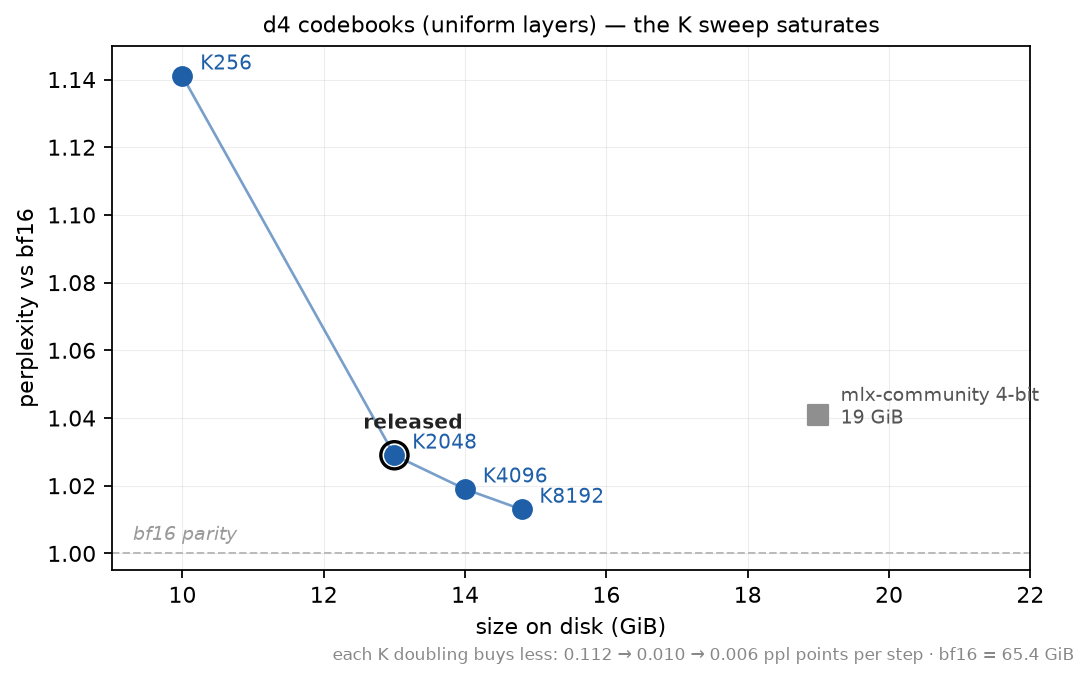
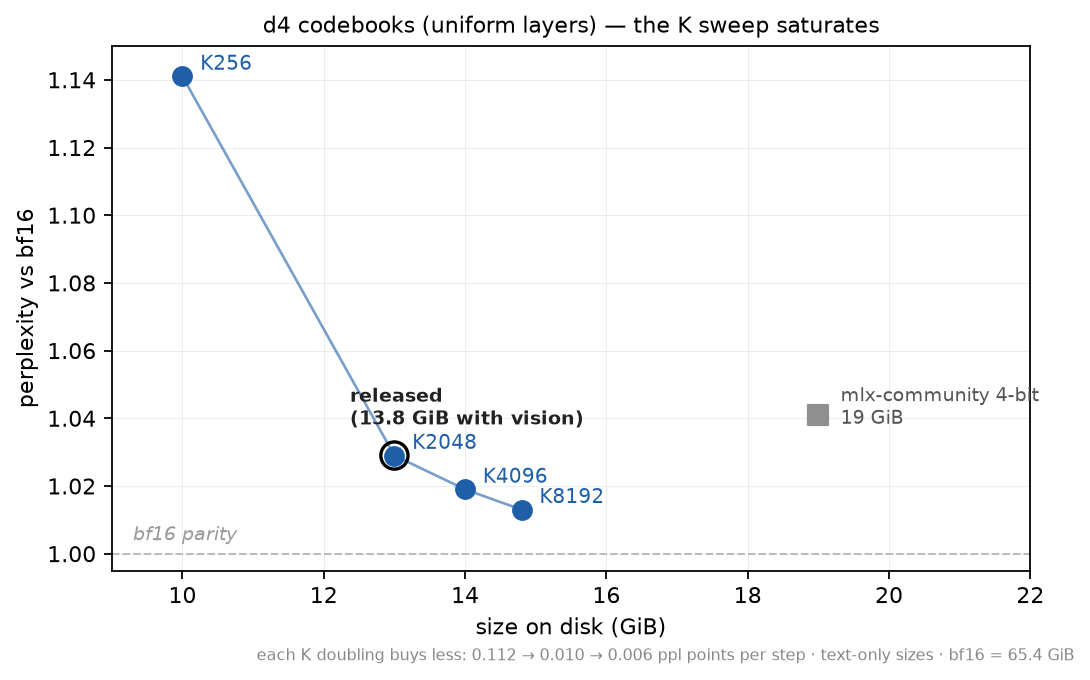
qwen release: vision towers grafted (Noah's catch) — sighted sizes 18.7/13.8, names VQ-4.6bpw/VQ-3.4bpw, charts and cards updated; KL gate + stock smoke re-passed on grafted bytes

diff --git a/research/quantlab/MODEL_CARD_QWEN_QUALITY.md b/research/quantlab/MODEL_CARD_QWEN_QUALITY.md
@@ -14,9 +14,9 @@ tags:
 - qwen3.6
 ---
 
-# Qwen3.6-35B-A3B-VQ-4.4bpw
+# Qwen3.6-35B-A3B-VQ-4.6bpw
 
-**8-bit-quality perplexity, smaller than the community 4-bit.** 17.9 GiB at ppl 0.991x vs bf16 — the 8-bit holds 0.999x at 35 GiB, the 4-bit degrades to 1.041x at 19 GiB (all measured on the same harness and corpus). Runs on a 32 GB Mac.
+**8-bit-quality perplexity, smaller than the community 4-bit.** 18.7 GiB (vision tower included) at ppl 0.991x vs bf16 — the 8-bit holds 0.999x at 35 GiB, the 4-bit degrades to 1.041x at 19 GiB (all measured on the same harness and corpus). Runs on a 32 GB Mac.
 
 A vector-quantized build of
 [Qwen3.6-35B-A3B](https://huggingface.co/Qwen/Qwen3.6-35B-A3B) for Apple
@@ -34,7 +34,7 @@ same files with an unmodified `mlx-lm`:
 |---|---|---|---|---|
 | bf16 | 65.4 GiB | 4.7215 | 1.000x | 100% |
 | mlx-community 8-bit | 35 GiB | — | 0.999x | 96.18% |
-| **this model** | **17.9 GiB** | **4.6812** | **0.991x** | 90.75% |
+| **this model** | **18.7 GiB** | **4.6812** | **0.991x** | 90.75% |
 | mlx-community 4-bit | 19 GiB | — | 1.041x | 85.61% |
 
 **At parity with bf16 on perplexity, at 26% of its size** — and smaller than
@@ -69,7 +69,7 @@ on the same harness and corpus; nothing was discarded.
 | bf16 (teacher) | — | — | 65.4 | 4.7215 | 1.000x | 0 | 100% |
 | mlx-community 8-bit | affine 8-bit | uniform | 35 | — | 0.999x | — | 96.18% |
 | mlx-community 4-bit | affine 4-bit | uniform | 19 | — | 1.041x | — | 85.61% |
-| **VQ — this model** | d2·K512 + d4·K2048 | rich layers 30-39 | 17.9 | 4.6812 | **0.991x** | 44.573 | 90.75% |
+| **VQ — this model** | d2·K512 + d4·K2048 | rich layers 30-39 | 18.7* | 4.6812 | **0.991x** | 44.573 | 90.75% |
 | VQ | d2·K2048 + d4·K2048 | rich layers 30-39 | 20.7 | 4.7210 | 1.000x | 46.842 | 90.30% |
 | VQ | d2·K256 + d4·K2048 | rich layers 30-39 | 16.5 | 4.7321 | 1.002x | 49.264 | 89.92% |
 | VQ | d2·K2048 + d4·K2048 | rich layers 20-39 | 18.1 | 4.7541 | 1.007x | 50.791 | 89.77% |
@@ -77,9 +77,11 @@ on the same harness and corpus; nothing was discarded.
 | VQ | d2·K256 | uniform | 17.6 | 4.7984 | 1.016x | 36.862 | 90.92% |
 | VQ | d4·K8192 | uniform | 14.8 | 4.7814 | 1.013x | 56.413 | 89.37% |
 | VQ | d4·K4096 | uniform | 14.0 | 4.8100 | 1.019x | 68.546 | 87.88% |
-| **VQ — compact sibling** | d4·K2048 | uniform | 13.0 | 4.8584 | 1.029x | 85.535 | 87.33% |
+| **VQ — compact sibling** | d4·K2048 | uniform | 13.8* | 4.8584 | 1.029x | 85.535 | 87.33% |
 | VQ | d4·K256 | uniform | 10 | — | 1.141x | — | 79.50% |
 | affine baseline (ours) | struct 8-bit base | uniform | 11 | — | 1.224x | — | 75.99% |
+
+\*Released sizes include the bf16 vision tower (+0.83 GiB); unreleased lab builds are text-only.
 
 Reading notes: "rich layers 30-39" means those layers carry the d4·K2048
 geometry and every other layer carries the cheap d2 geometry listed first.
@@ -107,7 +109,7 @@ Comfortable on a 32 GB machine with context headroom — the 8-bit needs 48 GB+.
 ```bash
 pip install mlx-lm
 python -m mlx_lm generate \
-  --model TheDrainFlorist/Qwen3.6-35B-A3B-VQ-4.4bpw \
+  --model TheDrainFlorist/Qwen3.6-35B-A3B-VQ-4.6bpw \
   --prompt "Write a Python function that ..." \
   --max-tokens 512
 ```

diff --git a/research/quantlab/MODEL_CARD_QWEN_SMALL.md b/research/quantlab/MODEL_CARD_QWEN_SMALL.md
@@ -14,13 +14,13 @@ tags:
 - qwen3.6
 ---
 
-# Qwen3.6-35B-A3B-VQ-3.2bpw
+# Qwen3.6-35B-A3B-VQ-3.4bpw
 
-**13.0 GiB — beats the 19 GiB 4-bit on perplexity at 68% of its size.**
+**13.8 GiB (vision tower included) — beats the 19 GiB 4-bit on perplexity at 73% of its size.**
 
 The compact build in this collection: a vector-quantized
 [Qwen3.6-35B-A3B](https://huggingface.co/Qwen/Qwen3.6-35B-A3B) for machines
-where the 17.9 GiB parity build is too large. Stock `mlx-lm`.
+where the 18.7 GiB parity build is too large. Stock `mlx-lm`.
 
 
 ![where these releases sit](qwen36_ladder.png)
@@ -31,14 +31,14 @@ where the 17.9 GiB parity build is too large. Stock `mlx-lm`.
 |---|---|---|---|
 | bf16 | 65.4 GiB | 1.000x | 100% |
 | mlx-community 8-bit | 35 GiB | 0.999x | 96.18% |
-| sibling parity build | 17.9 GiB | 0.991x | 90.75% |
-| **this model** | **13.0 GiB** | **1.029x** | **87.33%** |
+| sibling parity build | 18.7 GiB | 0.991x | 90.75% |
+| **this model** | **13.8 GiB** | **1.029x** | **87.33%** |
 | mlx-community 4-bit | 19 GiB | 1.041x | 85.61% |
 
 **+2.9% perplexity against the 4-bit's +4.1%, at 68% of its size.**
 
 This is a genuine quality step down from the parity build — it costs ~3.8%
-perplexity to save 4.9 GiB. If you have the RAM, take the 17.9 GiB one.
+perplexity to save 4.9 GiB. If you have the RAM, take the 18.7 GiB one.
 
 Perplexity is corpus-specific; compare only against models scored on the
 same files.
@@ -61,7 +61,7 @@ Runs on a 16 GB machine at short context; comfortable on 24 GB+.
 ```bash
 pip install mlx-lm
 python -m mlx_lm generate \
-  --model TheDrainFlorist/Qwen3.6-35B-A3B-VQ-3.2bpw \
+  --model TheDrainFlorist/Qwen3.6-35B-A3B-VQ-3.4bpw \
   --prompt "Explain the difference between a mutex and a semaphore." \
   --max-tokens 512
 ```
@@ -99,7 +99,7 @@ Single-machine mlx-lm and pipeline sharding are unaffected.
 
 ## Limitations
 
-- Measurably below the 17.9 GiB sibling (1.029x vs 0.991x ppl) and well
+- Measurably below the 18.7 GiB sibling (1.029x vs 0.991x ppl) and well
   below the 35 GiB 8-bit. This is the size-first choice, not the quality
   choice.
 - Perplexity measured on one corpus; a different workload may rank builds
